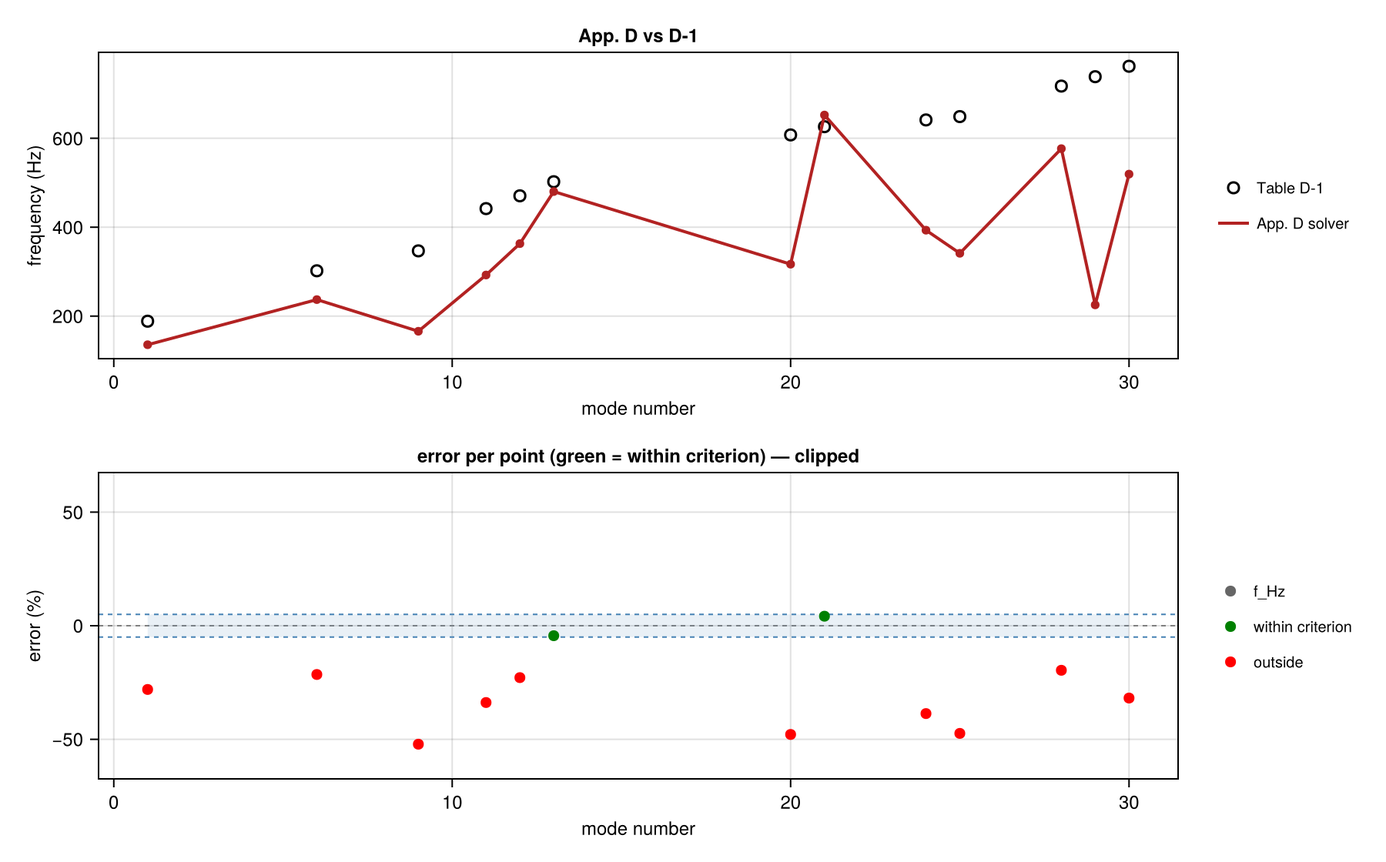
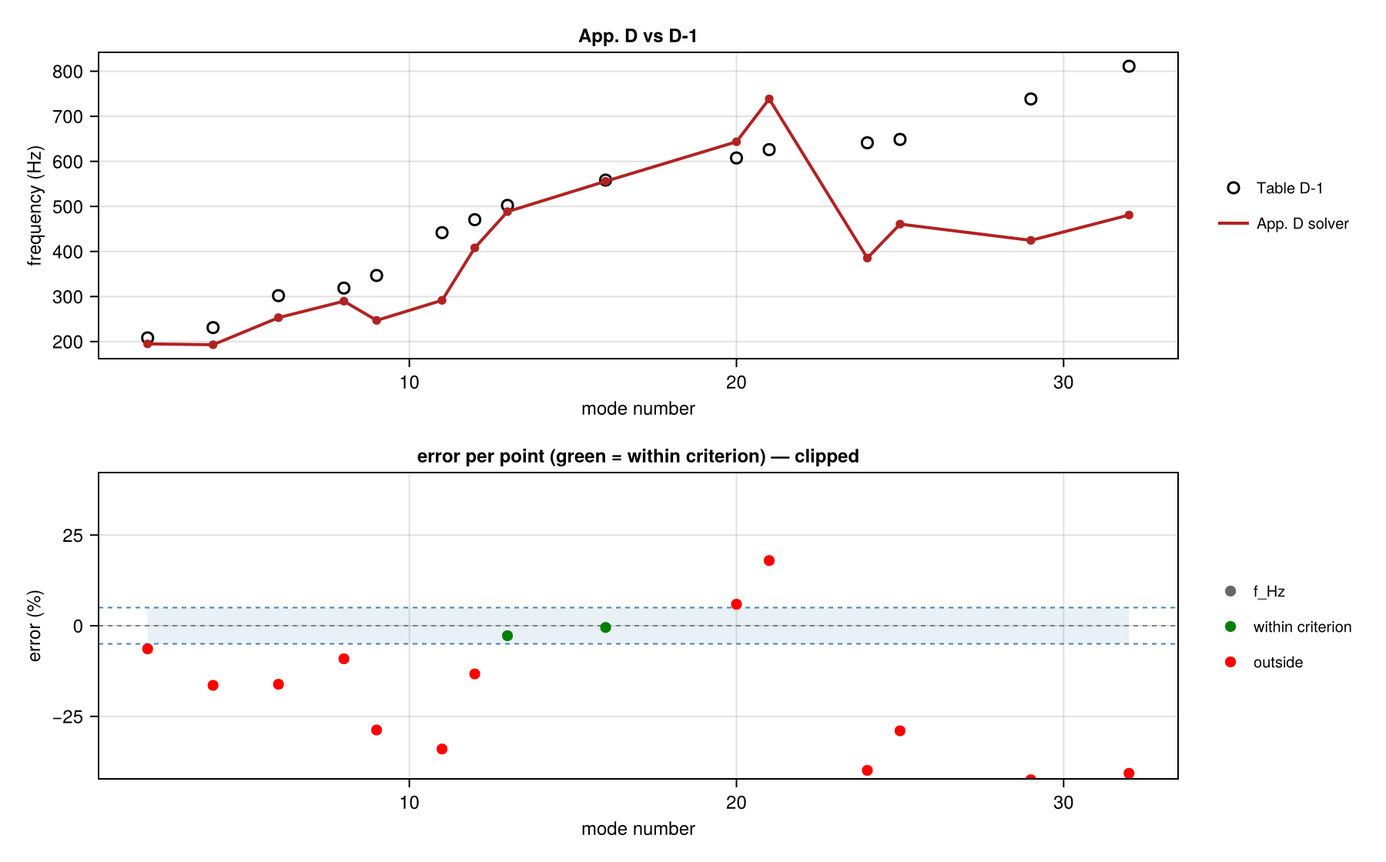
Phase 78d: App. D stiffener inputs corrected (centroidal inertias, orthotropic floor)
F1: channel_centroidal_I / angle_centroidal_I (tested against strip integration).
Frame and floor-beam I 1.365e-8 m^4 (was web only, 3.7x too small); stringer I
from the angle's centroid; floor-beam area with both flanges. The legacy Ritz
surrogate keeps its fitted-era inputs, so its calibrated fit (MRP_RITZ 29/32)
is unchanged.
F2: orthotropic floor (Dx beams, Dy supports, H plate), tested against the
orthotropic plate closed form.
F3: M_r (full eigenvector) differs from the truncated normal-displacement mass;
not changed, definition question recorded (78d-2).
F4: MRP_APPD identity 2/32 still; lowest mode 171 Hz (was 115; Table D-1 188.5),
39 modes below 820 Hz (was 61; 32). Leads L1-L3 registered as 78d-2.
Knock-on (post-hoc): UNC_COVER 1/3 (H1 now inside), verdict unchanged. Fig. D-2
comparison skipped when Table D-1 mode 1 has no same-identity solver mode.

Tests (targeted): mrp_appd 65/65, MRP raw Ritz 3/3, Validation map errors 421/421,
Validation case registry 3024/3024.

diff --git a/rea-work/docs/flowchart.md b/rea-work/docs/flowchart.md
@@ -17,7 +17,7 @@ Colour key in diagrams: green = check exists and passes as stated; orange = plan
 - **2026-10-24:** Phase 66 (A_LOADS / A_AMP): `BEMT_MOMENTUM`, `BEMT_HAND_TIP`, `BEMT_INTEGRALS`, `BEMT_SIMILARITY` on A_LOADS; `F1A_GUTIN_ANGLES` (not met 4/5, near-null phase), `F1A_GW_FLIGHT`, `F1A_THICKNESS`, `F1A_PROPERTIES` on A_AMP; the shared CCBlade set-up is `_ccblade_setup`, the F1A step `_f1a_harmonics`.
 - **2026-10-24:** Phase 65: the 160-point grid runs z_k = z_p − x₃ from the propeller plane (User Manual pp. 8–9, App. E p. E-8), z_p = 0.662 m for the test article (was mirrored, z_p = 0.90 m). Phase 62: each map block has a proving case with its own figure (12 new: `F1A_PLANE_PEAK` on X_F1A, `FF_E11_MAP` on X_FF, `SRC_PASSTHROUGH` on X_SRC, `BLK_GAIN_MAP` on X_BLK_OUT, `MRP_INPUT_QA` on X_MRP_IN, `MRP_SHAPE_NORM` on X_MRP_OUT, `CABIN_GEOM_HAND` on X_CYL_IN, `CYL2D_WEYL` on X_CYL_OUT, `TRIM_INPUT_QA` on X_TRIM_IN, `TRIM_PASSIVITY` on X_TRIM_OUT, `PAIN_INPUT_ECHO` on X_PAIN_IN, `AC_CABIN_DEMO` on A_CABIN). Phase 63: the structural mode animates in the Cabin modes tab. Phase 64: unit tests for every function (`test/unit/`); the F1A_GUTIN reference is now the exact Gutin sum over the BEMT annuli (Δ = 0.03 dB). The GUI Run tab is the aircraft pipeline only; E-11 / synthetic inputs are PAIN verification (Validation tab).
 - **2026-10-23:** Phase 61 (P_REPRO): NASA's pre-correction floor sign does not reproduce CR-3813's runs (`REPRO_18b_PRE` 1/3, `E21_PRE` 1/4, `E22_HF_CODE` 1/4); not explained by the documents. T2's high-frequency gap is recorded as a limitation of PAIN's method (NASA's own E-22 output is 32–44 dB above measured; the code is within 2–8 dB of NASA). Phases 59–60 closed (Sharp bridges option on P_EQ8/P_MEAS: `SHARP_PANEL_D`, `NR_PROP_TP2444_BR`, `E22_BR`, `T2_MEAS_EXT_BR`; App. D mode extension not adopted). Phases 50–58 closed (`NR_PROP_TP2444_PF` on P_MEAS; `sparse_guard`, Ritz `include_floor`/`include_stiffeners` options; Q22 closed). Phase 48 (P_FF / P_MEAS): `BPM_RP1218` met; `PROP_BB_FIG14`, `PROP_BB_FIG17`, `T2_PRED_BB` not met. Phase 49 (P_EQ8 / trim): Eq. (20) sums the modes below the band, as printed; no in-theory input correction for T2's high-frequency gap (NASA: the trim model is valid to about 1 kHz). Phase 47 (P_MEAS): `NR_PROP_TP2444` not met 1/7, `T2_MEAS_EXT` not met (21.3 vs 51.0 dB). The measured TP-2444 exterior through T2's cabin path shows that PAIN's high-frequency noise reduction is 15–27 dB too high for the trimmed article; NASA's own E-21/E-22 predictions show the same. Phase 46: isolated checks for the last untested T1/T2 functions (37/37). Phase 45 `NR_TP1964_XOVER` (T2's Eq. 19 path on TP-1964; P_MEAS). Phase 44f: Eq. (52) floor-term sign of NASA's corrected program (P_EQ8 coupling); T1_F1A_FILL met post-hoc. Phase 42 `LOUDEST_PT` (output stage: loudest-point dB(A) next to the space average). Phase 44 CR-172428 reproduction (`R172428_CODE`, `R172428_EXP`, `R172428_ETA`, `R172428_TRIM`, `R172428_PAIRS`): NASA's printed App. B field and Table 6 inputs through the cabin chain; App. A η_r′ option; Eq. (83) now uses the bare f′. Phase 43 T1/T2 root causes (`T1_MEAS_DAMPING`, `H3_ATTRIB`, `NR_TP1964` / `_REF2`, `T1_F1A_FILL`, `T1_F1A_MEAS_DAMP`); card-10 volume crossover default; bare-cylinder module `circular_cavity.jl`. Phase 41 isolation chips (`T1_FROM_E12`, `TRIM_CLOSED`, `NR_BAND_HAND`, `HF_MASSLAW`, `BEMT_HAND`, `F1A_INDEP`); five met, `T1_FROM_E12` not met (cabin chain). Phase 40 `ISO_*` all met except 40f. See `VALIDATION_GUIDELINE.md` §2.13.
-- **2026-10-28:** audit: polar path defects (plan Phase 69: one section at every Report 996 station, μ = 1 in CCBlade, no Re/M interpolation, no stall) and free-field block findings (Phase 70); map rows no longer overlap; `VALIDATION_GUIDELINE.md` §2.13 case records grouped by map chunk. Phase 69 fixes in the BEMT polar path (`load_polar_set` → `PolarSet` with per-station `section_polar`; `_ccblade_setup` passes μ = `AIR_MU_PA_S`) and the Report 996 polar input is now `polars_phase69_ncrit8.json` (free transition, N_crit 8); the affected cases are rerun (post-hoc, no verdict changed). Blocking (Eq. 43) unchanged: the A3b diagnostic found no missing term. Phase 72: AcousticAnalogies +X is ahead of the propeller; the Report 996 and Pereira observer builders (`R996_X_SIGN`, `pereira_observers`) now follow their documents. Phase 73: sensitivity script `scripts/run/r996_polar_sensitivity.jl` (no pipeline change). Phase 75 (planned): Validation tab figure regeneration and a stale-figure flag. Phase 76: F1A thickness term on for the Report 996 and Pereira comparisons (`area_over_chord2` from the section coordinates). Phase 74: Pereira Fig. 9 reference re-read from the PDF vectors (data only). Phase 78: MRP_APPD identity matching (`match_modes_by_identity`); App. D solver fix pending (78d).
+- **2026-10-28:** audit: polar path defects (plan Phase 69: one section at every Report 996 station, μ = 1 in CCBlade, no Re/M interpolation, no stall) and free-field block findings (Phase 70); map rows no longer overlap; `VALIDATION_GUIDELINE.md` §2.13 case records grouped by map chunk. Phase 69 fixes in the BEMT polar path (`load_polar_set` → `PolarSet` with per-station `section_polar`; `_ccblade_setup` passes μ = `AIR_MU_PA_S`) and the Report 996 polar input is now `polars_phase69_ncrit8.json` (free transition, N_crit 8); the affected cases are rerun (post-hoc, no verdict changed). Blocking (Eq. 43) unchanged: the A3b diagnostic found no missing term. Phase 72: AcousticAnalogies +X is ahead of the propeller; the Report 996 and Pereira observer builders (`R996_X_SIGN`, `pereira_observers`) now follow their documents. Phase 73: sensitivity script `scripts/run/r996_polar_sensitivity.jl` (no pipeline change). Phase 75 (planned): Validation tab figure regeneration and a stale-figure flag. Phase 76: F1A thickness term on for the Report 996 and Pereira comparisons (`area_over_chord2` from the section coordinates). Phase 74: Pereira Fig. 9 reference re-read from the PDF vectors (data only). Phase 78: MRP_APPD identity matching (`match_modes_by_identity`); App. D stiffener inputs corrected (78d); identity match still 2/32, leads in 78d-2.
 - **2026-10-22:** GUI Validation map is one horizontal `total` flowchart (aircraft + e11 + cabin + checks); titles only on blocks; stage frames pairwise disjoint (aircraft checks above/below pipeline). See §5 and `VALIDATION_GUIDELINE.md` §2.13.
 - **Phases 38d–38e / 38c / 38h / 38g / 36:** E18_TONES, E15_STRUCT_LOSS, HF broadband, printed outputs, MRP_APPD, cabin mode animation — see `IMPLEMENTATION_PLAN.md`.
 - **L = 1.83 m (I-22, post-hoc):** `test_article_length()` default; re-records in `length_rerecord_before_after.md`; no verdict flips.

diff --git a/rea-work/docs/IMPLEMENTATION_PLAN.md b/rea-work/docs/IMPLEMENTATION_PLAN.md
@@ -540,7 +540,7 @@ Moved to §11. Summary: base H1–H3 = 82.73, 75.73, 77.05 dB (= 18b-r); H3 top 
 - [ ] 77c Case-info text: one line explaining that Δc_l 0.05 ≈ 0.4–0.3° at M 0.4–0.72 and why no percentage is shown.
 - [ ] 77d Regenerate the POLAR_FIDELITY figure (Phase 75 procedure), five documents, targeted testsets (case_helpers_iso67, zz_completeness, Validation map errors if the plot spec is checked there), GUI smoke scripts, commit.
 
-## 8v. Phase 78 — structural modes: MRP_APPD, MRP_SHAPE_NORM and the no-verdict cases *(78a–78c done 2026-10-28; 78d next)*
+## 8v. Phase 78 — structural modes: MRP_APPD, MRP_SHAPE_NORM and the no-verdict cases *(78a–78d done 2026-10-28; 78d-2 next)*
 
 **Findings (2026-10-28, diagnostic runs only; nothing changed).**
 1. **MRP_APPD passes by construction of its matching.** `match_ritz_to_table_d1` pairs each Table D-1 frequency with the nearest unused solver mode by frequency alone. The App. D solver (`appd_modes`) has 61 modes below 820 Hz against Table D-1's 32 up to 811 Hz, about 13 Hz apart, so a ±5 % window finds a neighbour for almost any reference: the recorded 27/32 says little about the modes. Matched by identity (symmetry, axial m, dominant shell n, dominant floor n, the Table D-1 columns), the solver gives **2/32 within 5 %**: 19 identities have no solver mode, and the 13 matched are 20–70 % low (median −32 %). The (m = 1, n = 2, floor 0) mode is 135.6 Hz against 188.5 Hz; the solver's lowest mode is 115 Hz (n = 4). The solver is far too soft. The four greedy misses (modes 29–32 at 453–525 Hz) were the leftover modes.
@@ -561,7 +561,8 @@ Moved to §11. Summary: base H1–H3 = 82.73, 75.73, 77.05 dB (= 18b-r); H3 top 
   - **F2 Floor orthotropy.** Floor bending Dx = D_plate + 2·E·I_beam/Lp (the two longitudinal beams, App. E text) and Dy = D_plate + E·I_support/ℓ (the per-frame floor supports, primary reading: transverse members under the floor at each frame, App. E Fig. E-3), with the twisting term from the plate alone; the floor block's bending energy becomes Dx μ⁴ + 2(ν D_plate + 2 D_xy) μ² k_y² + Dy k_y⁴. Alternative reading, reported only: supports as rigid line supports at the frames. Test: the orthotropic floor block against the orthotropic simply supported plate closed form.
   - **F3 Shape normalization and M_r.** Check that returned shapes are normalized to unit maximum displacement over shell and floor (p. D-10) and that M_r is the generalized mass of that shape; fix if not. Test: a returned shape's max |ψ| = 1 and M_r equals ∫ρψ² dA of that shape.
   - **F4 Rerun** MRP_APPD (identity criterion, post-hoc) after F1–F3, primary readings; then the alternative floor reading as information. If the identity count is still below 75 %, record the remaining modes per (m, n) against Table D-1 and return to 78b with what F1–F3 did not explain.
-- [ ] 78d Implement F1–F4, rerun MRP_APPD with the identity criterion (post-hoc), regenerate its figure.
+- [x] 78d Implement F1–F4, rerun MRP_APPD with the identity criterion (post-hoc), regenerate its figure. **Done 2026-10-28:** **F1** `channel_centroidal_I`, `angle_centroidal_I` (`src/mrp.jl`; tests against strip integration): frame and floor-beam I 1.365·10⁻⁸ m⁴ (was 3.704·10⁻⁹, web only), stringer I 1.422·10⁻¹⁰ m⁴ (was 2.388·10⁻¹⁰, one leg about its base), floor-beam area with both flanges (was one). The legacy Ritz surrogate keeps its fitted-era inputs (`_RITZ_LEGACY_*`) so its calibrated fit is unchanged. **F2** orthotropic floor (`_appd_floor_props`: Dx = D + 2EI/Lp, Dy = D + EI/ℓ, H = D; test against the orthotropic plate closed form). **F3** shapes are max-normalized (0.95–1.09 on a sampled grid), but M_r is qᵀMq of the full eigenvector (in-plane inertia and all coefficients) while ∫ρψ² dA counts the truncated normal displacement only (mode 3: 58.3 against 3.1 kg): not changed; which one PAIN's modal equation needs depends on App. D's definition of generalized mass (open, 78d-2). **F4** MRP_APPD (identity): **still 2/32**; the spectrum moved toward Table D-1 (lowest mode 170.8 Hz, was 115; Table D-1 188.5; 39 modes below 820 Hz, was 61; Table D-1 32). Knock-on (post-hoc): UNC_COVER (parametric cabin, App. D modes) 1/3 within criterion (H1 margin +0.19 dB, was −0.81; H2 −2.09; H3 −18.47), still not met; the aircraft demonstration path uses the corrected defaults. Fig. D-2 comparison skipped while Table D-1 mode 1 has no same-identity solver mode.
+- [ ] 78d-2 **Back to isolation (F4 rule), leads registered 2026-10-28:** (L1) axial stiffness: the solver puts m = 5–7 modes below 700 Hz (382, 510, 669 Hz) where Table D-1 has none above m = 5 below 811 Hz; the stringer contribution with the eccentricity (asterisk) terms dropped is the first suspect; check D_xs and the membrane kx against the printed (D.23)–(D.25) terms. (L2) circumferential order: several Table D-1 families sit one order below the solver's similar-frequency modes (Table D-1 (m2, n4, f0) 217.9 Hz against the solver's (m2, n5, f0) 207 Hz); check the (D.26) (−1)ⁿ cos nθ convention and the n numbering of the basis against Table D-1's printed coefficients for one mode. (L3) M_r definition (F3).
 - [ ] 78e MRP_SHAPE_NORM: re-check the Table D-1 coefficients of modes 4, 7, 11, 16, 21, 24, 27 against the page scans (CR-3813 pp. D-13–D-16), two independent readings. A transcription error is corrected (and the coupling cases rerun, post-hoc); otherwise the record classes the excess as the truncated printed table (§2.14 class I) and the criterion stays.
 - [ ] 78f Remove MRP_D1 and MRP_RITZ from the Validation map (§2.13 map placement); keep their unit tests; the map tests still require every block to have a case with its own figure.
 - [ ] 78g Five documents, targeted testsets (mrp, mrp_appd, Validation map errors, Validation case registry), GUI smoke scripts, commit.

diff --git a/rea-work/docs/VALIDATION_GUIDELINE.md b/rea-work/docs/VALIDATION_GUIDELINE.md
@@ -1731,7 +1731,7 @@ Outputs: f [Hz] vs Table D-1; fraction within 5 %; verdict always `:no_verdict`.
 **Why it is here:** Any geometry other than the test article needs Eqs. (D.17)–(D.26), not the Table D-1 seed.
 **A pass means:** ≥ 75 % of the 32 Table D-1 modes within 5 % of the solver mode of the same identity (symmetry, axial m, dominant shell and floor orders; identity matching fixed 2026-10-28, count rule 2026-10-22); no calibration input.
 **Not covered:** Fig. D-2 shapes reported without a pass mark; production default remains Table D-1 / fitted surrogate.
-**Recorded outcome:** **met**, 27/32 within 5 % (84.4 %); Fig. D-2 max \|Δw\| = 1.4534 (info, no pass mark). First run 2026-10-22 (`mrp_appd_vs_d1.md`). **Audit 2026-10-28 (Phase 78):** this pass is an artifact of frequency-only matching (the solver has 61 modes below 820 Hz against Table D-1's 32); matched by mode identity the solver gives 2/32 within 5 %, 20–70 % low. The criterion moves to identity matching in Phase 78a. **Re-run 2026-10-28 (Phase 78a, identity criterion fixed before its first run):** **not met, 2/32** (19 Table D-1 modes have no solver mode of the same identity; frequency-only count 31/32, information). Isolation (78b): the shell and floor operators are exact against closed forms; the stiffener inertias drop the channel flanges (frames and floor beams 3.7× too soft) and the floor stiffness is isotropic. Fix plan 78c.
+**Recorded outcome:** **met**, 27/32 within 5 % (84.4 %); Fig. D-2 max \|Δw\| = 1.4534 (info, no pass mark). First run 2026-10-22 (`mrp_appd_vs_d1.md`). **Audit 2026-10-28 (Phase 78):** this pass is an artifact of frequency-only matching (the solver has 61 modes below 820 Hz against Table D-1's 32); matched by mode identity the solver gives 2/32 within 5 %, 20–70 % low. The criterion moves to identity matching in Phase 78a. **Re-run 2026-10-28 (Phase 78a, identity criterion fixed before its first run):** **not met, 2/32** (19 Table D-1 modes have no solver mode of the same identity; frequency-only count 31/32, information). Isolation (78b): the shell and floor operators are exact against closed forms; the stiffener inertias drop the channel flanges (frames and floor beams 3.7× too soft) and the floor stiffness is isotropic. Fix plan 78c. **Re-run 2026-10-28 (Phase 78d F1–F2, inputs corrected from App. E, post-hoc):** still **not met, 2/32**; lowest solver mode 170.8 Hz (was 115; Table D-1 188.5), 39 modes below 820 Hz (was 61; Table D-1 32). Remaining leads in 78d-2.
 **Explanation:** Code-on-code (against printed values / NASA solver outputs): implements App. D constraints D.17–D.21, constitutive D.23–D.24, operator D.25, eigenproblem D.22, shapes D.26–D.29 with physical geometry from App. E / Manual §5.2. No parameter fitted to Table D-1. Label V-CODE; first run 2026-10-22.
 Inputs: `appd_test_article_geometry()`; n_modes=48, n_axial=7, n_circ=8, n_floor_max=5; tol_frac=0.05; count rule ≥75 % of 32.
 Equations: App. D (D.17)–(D.26); code `appd_modes` in `mrp_appd.jl`.
@@ -2277,7 +2277,7 @@ Outputs: per-pair ratio [dB].
 **Why it is here:** Coverage check on the test article before trusting the aircraft epistemic band; can fail without widening ranges in this run.
 **A pass means:** Measured mean at each of H1, H2, H3 lies inside the primary (uniform) MC P5–P95; `:met` only if all three.
 **Not covered:** Not a confidence interval; no E-16 envelope floor; no tuned value; scattering/refraction excluded (V-ASSUMED); aircraft source residuals not in this check.
-**Recorded outcome:** `:not_met` — H1 P5/P50/P95 88.95/89.87/91.06 vs mean 90 (inside, margin +1.05 dB); H2 85.46/91.3/92.86 vs 80 (miss −5.46); H3 73.09/74.78/77.59 vs 65 (miss −8.09); kept `freq_scale`, `eta_t`; `uncertainty_budget_testarticle.md` (first run 2026-10-22) **Phase 44 knock-on (2026-10-23, Eq. (83) bare f′):** 0/3 within criterion (H1 margin −0.86 dB, was +1.05; H2 −5.45, H3 −8.09); verdict unchanged (not_met). **Phase 44f knock-on (2026-10-23, Eq. (52) floor-term sign of NASA's corrected program; post-hoc):** 0/3 (margins −0.81, −5.87, −10.24 dB).
+**Recorded outcome:** `:not_met` — H1 P5/P50/P95 88.95/89.87/91.06 vs mean 90 (inside, margin +1.05 dB); H2 85.46/91.3/92.86 vs 80 (miss −5.46); H3 73.09/74.78/77.59 vs 65 (miss −8.09); kept `freq_scale`, `eta_t`; `uncertainty_budget_testarticle.md` (first run 2026-10-22) **Phase 44 knock-on (2026-10-23, Eq. (83) bare f′):** 0/3 within criterion (H1 margin −0.86 dB, was +1.05; H2 −5.45, H3 −8.09); verdict unchanged (not_met). **Phase 44f knock-on (2026-10-23, Eq. (52) floor-term sign of NASA's corrected program; post-hoc):** 0/3 (margins −0.81, −5.87, −10.24 dB). **Phase 78d knock-on (2026-10-28, App. D stiffener inputs corrected; post-hoc):** 1/3 (margins +0.19, −2.09, −18.47 dB); verdict unchanged (not met).
 **Explanation:** Experiment comparison (V-EXP vs measured E-16 means; first run 2026-10-22; pre-registered): untuned `:parametric` chain on the NASA test article with the phase-31 a-priori budget; OAT keep (>3 dB); primary Monte Carlo N=4000 seed 20261022; plot P5–P95 band with measured means. Failure means a missing contributor or ranges too narrow — do not widen here.
 Inputs: `cabin_blocks=:parametric`, `source=:e11`, Phase III trim path with η_t in 0.01–0.10 (nominal 0.05), C 2–4, freq scale 0.95–1.05, discrete CYL2D/q_max/blocking/trim alternatives; `t1_interior_targets.csv` measured means 90/80/65 dB; L = 1.83 m.
 Equations: App. D modes + Eq. (8) tones; App. A trim; no E-16 envelope in the band.

diff --git a/rea-work/docs/validation_reports/phase78_appd_isolation.md b/rea-work/docs/validation_reports/phase78_appd_isolation.md
@@ -19,54 +19,56 @@ Largest |ratio − 1|: 0.0000.
 
 ## 2. Floor plate alone vs the simply supported plate closed form (same Df, mf)
 
-f = (π/2)·√(Df/mf)·((M/L)² + (p/Lp)²); the App. D floor block is the same Kirchhoff energy, so this checks its assembly.
+Orthotropic: f = (1/2π)·√((Dx μ⁴ + 2H μ²k² + Dy k⁴)/mf), μ = Mπ/L, k = pπ/Lp (Phase 78d F2); the App. D floor block is the same Kirchhoff energy, so this checks its assembly.
 
 | M | p | App. D floor block [Hz] | closed form [Hz] |
 |---|---|---|---|
-| 1 | 1 | 70.0 | 70.0 |
-| 1 | 2 | 242.9 | 242.9 |
-| 2 | 1 | 107.1 | 107.1 |
-| 1 | 3 | 531.0 | 531.0 |
+| 1 | 1 | 89.2 | 89.2 |
+| 1 | 2 | 353.1 | 353.1 |
+| 2 | 1 | 102.6 | 102.6 |
+| 1 | 3 | 793.9 | 793.9 |
 
 ## 3. Smeared section properties (App. E dimensions; independent hand values)
 
 | quantity | code | hand | note |
 |---|---|---|---|
 | skin D [N·m] | 3.633 | 3.633 | E t³/12(1−ν²) |
-| frame I [m⁴] | 3.704e-09 | 1.365e-08 | code: web only (0.038³·t/12); hand: channel with two 0.017 m flanges |
-| D_θR [N·m] | 1357.4 | 4991.2 | D_skin + E·I_frame/ℓ (hand with the channel I) |
-| floor Df [N·m] | 1999.7 | x: 642.0, y: 1357.4 | code: one isotropic sum; hand: longitudinal beams stiffen x, the per-frame supports y |
+| frame I [m⁴] | 1.365e-08 | 1.365e-08 | code: web only (0.038³·t/12); hand: channel with two 0.017 m flanges |
+| D_θR [N·m] | 4991.7 | 4991.2 | D_skin + E·I_frame/ℓ (hand with the channel I) |
+| floor Dx, Dy [N·m] | 2361.4, 4997.2 | 2355.9, 4991.7 | longitudinal beams stiffen x, the per-frame supports y (orthotropic since Phase 78d F2) |
 
 ## 4. Mass budget (App. E geometry, kg)
 
-Skin 13.15, 18 stringers 0.97, 8 frames 4.14, floor plate 3.50, 2 floor beams 0.44: total 22.20. Model (smeared ms over the full circumference + mf over the floor): 23.31 (ratio 1.050). Per-frame floor supports and end caps not included in either.
+Skin 13.15, 18 stringers 0.97, 8 frames 4.14, floor plate 3.50, 2 floor beams 0.58: total 22.34. Model (smeared ms over the full circumference + mf over the floor): 23.61 (ratio 1.057). Per-frame floor supports and end caps not included in either.
 
 ## 5. Stiffened cylinder without floor vs the coupled model
 
 | (m, n) | closed stiffened cylinder [Hz] |
 |---|---|
-| (1, 2) | 231.0 |
-| (1, 3) | 159.8 |
-| (1, 4) | 208.3 |
-| (2, 4) | 316.3 |
-| (3, 4) | 506.7 |
+| (1, 2) | 242.3 |
+| (1, 3) | 237.6 |
+| (1, 4) | 382.3 |
+| (2, 4) | 449.8 |
+| (3, 4) | 599.5 |
 
-Coupled model: lowest mode 115.3 Hz; 61 modes below 820 Hz (Table D-1: 32 up to 811 Hz).
+Coupled model: lowest mode 170.8 Hz; 39 modes below 820 Hz (Table D-1: 32 up to 811 Hz).
 
 ## 6. Identity-matched modes: frequency and generalized mass against Table D-1
 
 | D-1 mode | f D-1 [Hz] | f solver [Hz] | M_r D-1 [kg] | M_r solver [kg] |
 |---|---|---|---|---|
-| 1 | 188.5 | 135.6 | 1.139 | 2.617 |
-| 6 | 301.9 | 237.1 | 3.356 | 1.858 |
-| 9 | 346.7 | 165.9 | 3.076 | 3.902 |
-| 11 | 441.8 | 292.4 | 1.033 | 64.055 |
-| 12 | 470.5 | 363.0 | 2.275 | 1.910 |
-| 13 | 502.2 | 480.1 | 6.314 | 8.561 |
-| 20 | 607.5 | 316.8 | 2.887 | 1.663 |
-| 21 | 626.0 | 652.2 | 1.953 | 0.989 |
-| 24 | 641.2 | 393.2 | 1.032 | 0.492 |
-| 25 | 648.7 | 341.2 | 3.122 | 5.157 |
-| 28 | 717.3 | 576.6 | 2.321 | 2.628 |
-| 29 | 738.4 | 225.2 | 3.632 | 3.539 |
-| 30 | 761.9 | 519.3 | 2.909 | 1.460 |
+| 2 | 208.2 | 194.9 | 1.126 | 58.317 |
+| 4 | 231.0 | 193.0 | 1.054 | 0.583 |
+| 6 | 301.9 | 253.1 | 3.356 | 3.526 |
+| 8 | 318.7 | 289.7 | 5.336 | 4.257 |
+| 9 | 346.7 | 247.0 | 3.076 | 3.952 |
+| 11 | 441.8 | 291.6 | 1.033 | 35.977 |
+| 12 | 470.5 | 408.0 | 2.275 | 1.885 |
+| 13 | 502.2 | 488.4 | 6.314 | 7.493 |
+| 16 | 558.4 | 555.8 | 1.657 | 2.913 |
+| 20 | 607.5 | 643.5 | 2.887 | 1.494 |
+| 21 | 626.0 | 738.6 | 1.953 | 2.471 |
+| 24 | 641.2 | 385.4 | 1.032 | 3.291 |
+| 25 | 648.7 | 460.7 | 3.122 | 2.737 |
+| 29 | 738.4 | 424.7 | 3.632 | 2.137 |
+| 32 | 811.0 | 480.9 | 2.106 | 3.859 |

diff --git a/rea-work/README.md b/rea-work/README.md
@@ -57,7 +57,7 @@ The [flowcharts](docs/flowchart.md) show the total program overview (diagram 1),
 | Phase 73 Report 996 section-polar fidelity (2026-10-28) | **73a–73d done; 73e (author decision) open.** Section c_l at the measured XFOIL − TN 1546 level moves thrust ≤ 7.9 % and the scaled-load levels ≤ 0.19 dB: not the cause. XFOIL c_d is about 25 % below TN 1546 and accounts for about half the torque gap (`docs/validation_reports/phase73_polar_sensitivity.md`). |
 | Phase 76 thickness noise in the experimental source comparisons (2026-10-28) | **Done.** The Report 996 and Pereira measurements contain thickness noise; the runs were loading-only. Thickness term on, A/c² per station from the section coordinates (no fitting). Post-hoc: R996_FIG14 met 24/24 (was 14/24), R996_FIG12 met 32/40 (was 13/40), PER_FIG7 met 3/3; totals 44 met, 42 not met. |
 | Phase 79 CYL2D (planned 2026-10-28) | **Planned, not started.** Information rows (NY = 10 in ISO_CYL2D_EXACT) are counted as failures on the map; the floored cross-section errors with complex eigenvalues for any grid finer than NY = 10, so production's grid cannot be checked for convergence; CYL2D_WEYL compares with Weyl's leading term only (`docs/IMPLEMENTATION_PLAN.md` §8w). |
-| Phase 78 structural modes (2026-10-28) | **78a–78c done, 78d (fix) next.** MRP_APPD now uses identity matching and reads not met (2/32). Isolation: the shell and floor operators are exact; the stiffener inertias drop the channel flanges (3.7× too soft) and the floor stiffness is isotropic. Fix plan F1–F4 registered. Also PER_FIG8 now shows H1 and H2 only, with the reason in its record. Earlier text: MRP_APPD's recorded pass comes from frequency-only matching against a solver spectrum twice as dense as Table D-1; matched by mode identity it is 2/32 and the App. D solver is 20–70 % too low. Plan: identity criterion, isolation checks, then a fix plan and fix; MRP_SHAPE_NORM transcription check; MRP_D1 and MRP_RITZ off the map (`docs/IMPLEMENTATION_PLAN.md` §8v). |
+| Phase 78 structural modes (2026-10-28) | **78a–78d done, 78d-2 next.** 78d corrected the App. D stiffener inputs (centroidal inertias, orthotropic floor): spectrum much closer to Table D-1 (lowest mode 171 Hz vs 188.5) but identity still 2/32. Before: MRP_APPD now uses identity matching and reads not met (2/32). Isolation: the shell and floor operators are exact; the stiffener inertias drop the channel flanges (3.7× too soft) and the floor stiffness is isotropic. Fix plan F1–F4 registered. Also PER_FIG8 now shows H1 and H2 only, with the reason in its record. Earlier text: MRP_APPD's recorded pass comes from frequency-only matching against a solver spectrum twice as dense as Table D-1; matched by mode identity it is 2/32 and the App. D solver is 20–70 % too low. Plan: identity criterion, isolation checks, then a fix plan and fix; MRP_SHAPE_NORM transcription check; MRP_D1 and MRP_RITZ off the map (`docs/IMPLEMENTATION_PLAN.md` §8v). |
 | Phase 77 POLAR_FIDELITY as an equivalent angle (planned 2026-10-28) | **Planned, not started.** Show the XFOIL − TN 1546 Δc_l also as an angle-of-attack error, Δα = Δc_l / (2π/√(1−M²)), display only; a percentage is not used because 13 of 60 points have |c_l| < 0.2 (`docs/IMPLEMENTATION_PLAN.md` §8u). |
 | Phase 75 stale validation figures (planned 2026-10-28) | **Planned, not started.** Selecting a case shows the saved PNG, which is redrawn only by Run; the figures of cases re-recorded in Phases 69–73 are stale. Regenerate them and flag stale figures in the GUI (`docs/IMPLEMENTATION_PLAN.md` §8s). |
 | Phase 74 Pereira PER_FIG8 / PER_FIG9 (2026-10-28) | **74a–74c done.** Fig. 9 re-read exactly from the PDF vector graphics: the old H1 = 80 dB was a misreading; Fig. 9 now equals Fig. 8 within 0.1 dB, and PER_FIG9 H1 is 9/9 (was 0/9). Remaining H2 misses at φ = −20°, +20°, +30° are the size of Pereira's own CFD misses (class N). |

diff --git a/rea-work/docs/METHODOLOGY.md b/rea-work/docs/METHODOLOGY.md
@@ -294,7 +294,7 @@ QUIT
 | Grid fill (69c): `fill 8` | Every grid polar whose up or down sweep hung (443 of 720); same settings; the 2026-10-22 restart rule (after a 60 s hang the sweep restarts at the next angle) | Same file, rewritten in place: 1,977 points added, existing points kept; 24,706 of 38,160 grid points converged (65 %; by Mach 52 % at 0.1, 70 % at 0.5, 85 % at 0.7, 47 % at 0.9); 23 tables still have fewer than 3 points (16 on 16-101, 11 at M 0.9) and fall back to the nearest usable table. `header.fill_pass` records the pass; log `data/polars/run_phase69_fill.log` |
 | N_crit fit repeat (69b): `tn1546` | As the first fit, on an idle machine (registered before the repeat, because XFOIL's 60 s limit is wall-clock) | Identical fit table at every N_crit: N_crit 8 is final |
 
-**App. D structural solver (Phase 78, 2026-10-28).** MRP_APPD is matched by mode identity (`match_modes_by_identity`); frequency-only matching passed by construction against the solver's denser spectrum. The solver's shell and floor operators are exact against closed forms (`phase78_appd_isolation.md`); its stiffener inputs are not (channel flanges missing from the frame and floor-beam inertias; isotropic floor). Production still uses Table D-1.
+**App. D structural solver (Phase 78, 2026-10-28).** MRP_APPD is matched by mode identity (`match_modes_by_identity`); frequency-only matching passed by construction against the solver's denser spectrum. The solver's shell and floor operators are exact against closed forms (`phase78_appd_isolation.md`); its stiffener inputs were not (channel flanges missing from the frame and floor-beam inertias; isotropic floor), corrected in 78d (centroidal section inertias, orthotropic floor); MRP_APPD is still 2/32 by identity, leads in 78d-2. The legacy Ritz surrogate keeps its fitted-era inputs. Production (e11 path) still uses Table D-1; the parametric cabin (UNC_COVER) and the aircraft demonstration use the corrected App. D inputs.
 
 **Pereira Fig. 9 (Phase 74, 2026-10-28).** Fig. 9 is vector graphics in the PDF, so its bars are read exactly (`dig_pereira_fig9_vector.py`); the earlier hand reading put every H1 bar at 80 dB, about 4 dB low. Re-read, Fig. 9 equals Fig. 8 within 0.1 dB.
 
